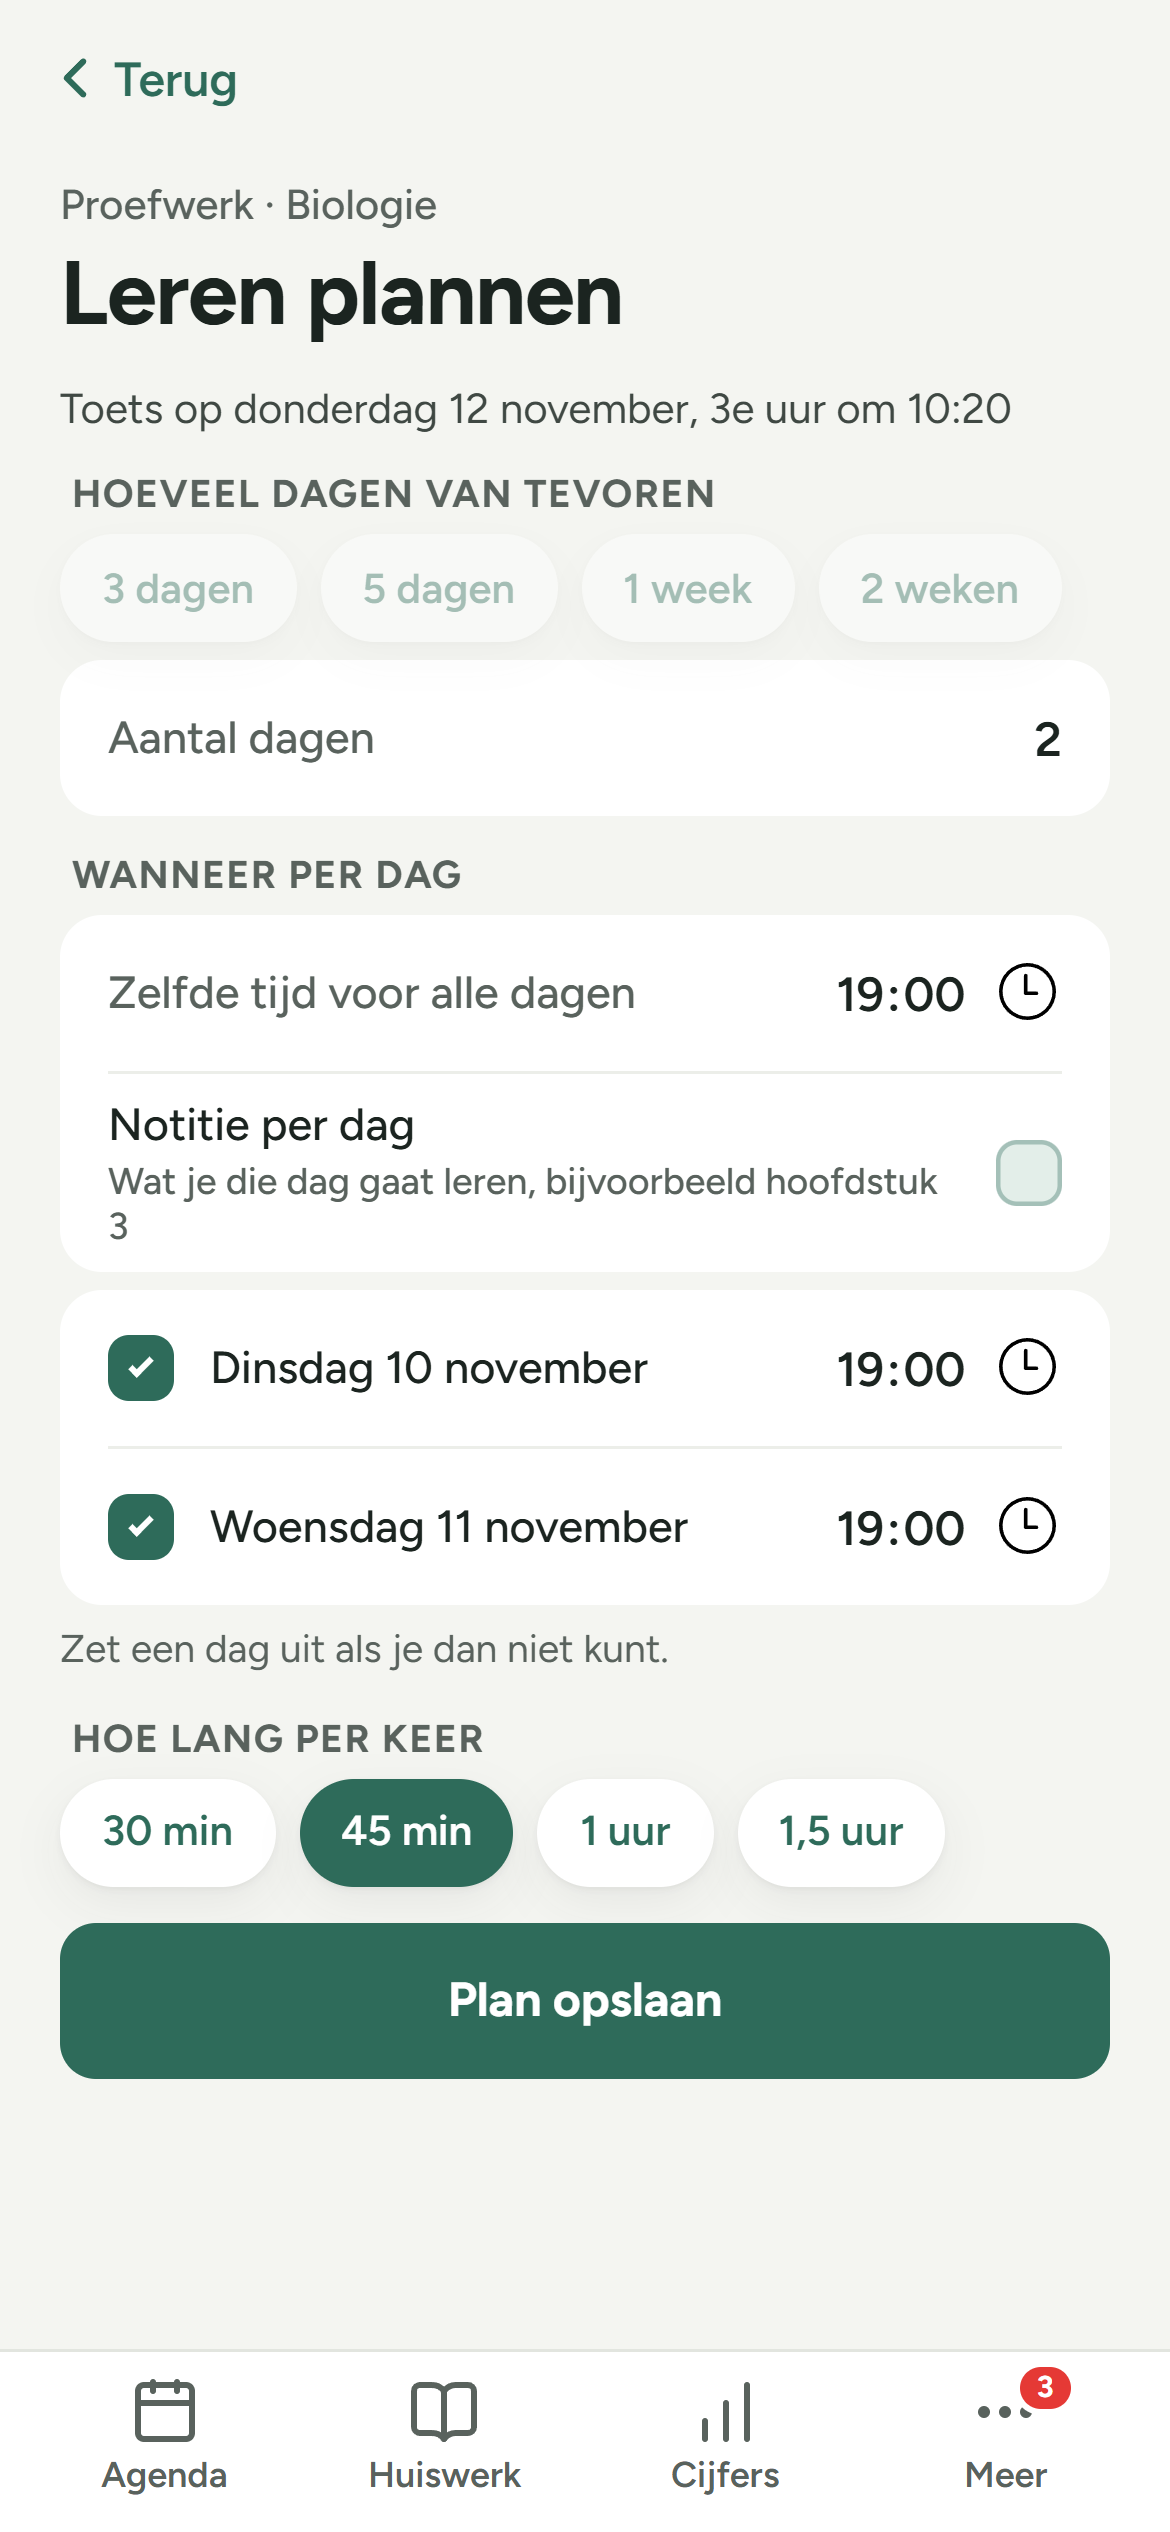
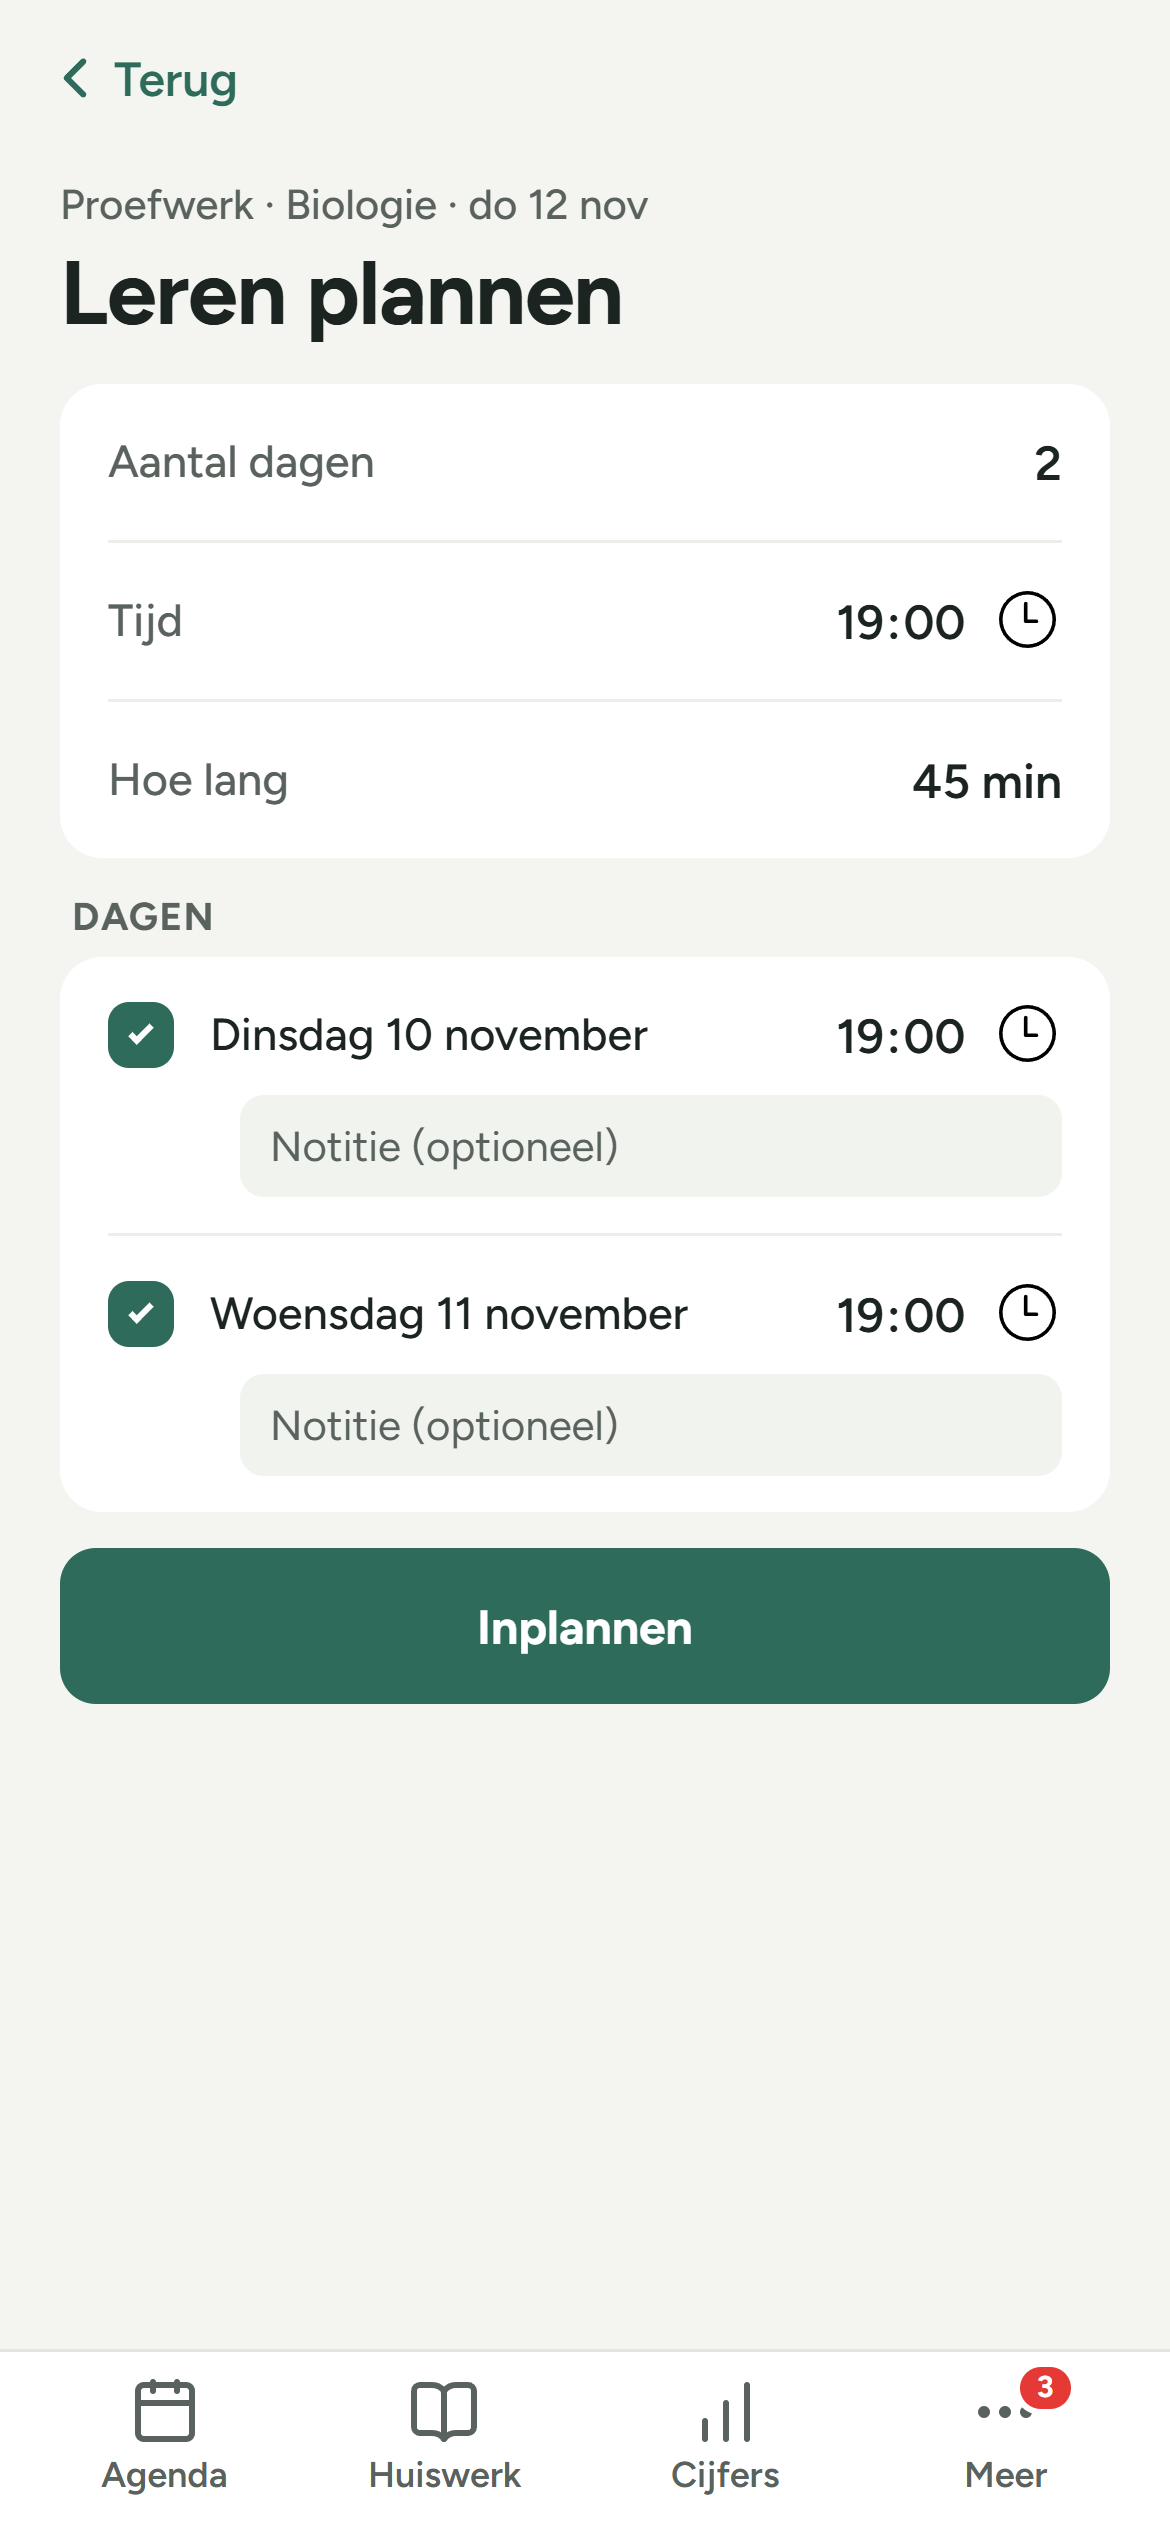
Leren plannen eenvoudiger: één kaart met aantal dagen, tijd en hoe lang; dagen met notitieveld; knop Inplannen

diff --git a/src/screens/LerenPlannen.tsx b/src/screens/LerenPlannen.tsx
@@ -8,7 +8,7 @@ import { PaginaKop } from '../components/ui/PaginaKop';
 import { Sectie } from '../components/ui/Sectie';
 import { TerugLink } from '../components/ui/TerugLink';
 import { soortVan, useAfspraak } from '../hooks/useAfspraak';
-import { beginVanDag, dagTitel, naarInvoer, plusDagen, tijd, vanInvoer } from '../lib/datum';
+import { beginVanDag, dagKort, dagTitel, korteDatum, naarInvoer, plusDagen, vanInvoer } from '../lib/datum';
 import { useLagen } from '../lib/laag';
 import { bewaarLeerplan, leerplanVoor, verwijderLeerplan, type Leermoment } from '../lib/leerplan';
 import { controleerNu } from '../lib/notificaties';
@@ -22,18 +22,13 @@ import '../components/leren/leren.css';
 const MAX_DAGEN = 21;
 const STANDAARD_TIJD = '19:00';
 
-const SNEL = [
-  { naam: '3 dagen', dagen: 3 },
-  { naam: '5 dagen', dagen: 5 },
-  { naam: '1 week', dagen: 7 },
-  { naam: '2 weken', dagen: 14 },
-];
-
 const DUREN = [
+  { naam: '15 min', minuten: 15 },
   { naam: '30 min', minuten: 30 },
   { naam: '45 min', minuten: 45 },
   { naam: '1 uur', minuten: 60 },
   { naam: '1,5 uur', minuten: 90 },
+  { naam: '2 uur', minuten: 120 },
 ];
 
 /** De datums waarop je leert: van `dagen` dagen voor de toets tot de dag ervoor, niet in het verleden. */
@@ -45,8 +40,8 @@ function datumsVoor(toetsDag: Date, dagen: number): string[] {
 }
 
 /**
- * Leren plannen voor een toets: hoeveel dagen van tevoren je begint (snelknoppen of de keuzelijst),
- * en per dag hoe laat. De leermomenten komen in je Agenda, met een melding als je dat wilt.
+ * Leren plannen voor een toets, zo eenvoudig mogelijk: één kaart met hoeveel dagen, hoe laat en hoe lang,
+ * daaronder de dagen (aan/uit, eigen tijd, notitie). De leermomenten komen in je Agenda en op school.
  */
 export function LerenPlannen() {
   const { id = '' } = useParams();
@@ -64,7 +59,6 @@ export function LerenPlannen() {
 
   const [dagen, setDagen] = useState<number | null>(bestaand?.dagen ?? null);
   const [duur, setDuur] = useState<number | null>(bestaand?.duur ?? null);
-  const [notities, setNotities] = useState(bestaand?.notities ?? false);
   // Een ouder kan geen afspraken in de agenda van het kind zetten.
   const kanOpSchool = !api.isOuder();
   const [bezig, setBezig] = useState(false);
@@ -114,7 +108,8 @@ export function LerenPlannen() {
       dagen: gekozenDagen,
       duur: gekozenDuur,
       momenten,
-      notities,
+      // Elke dag heeft een notitieveld; leeg blijft leeg.
+      notities: true,
       // Herinneringen voor leermomenten staan uit (meldingen werken nog niet betrouwbaar genoeg).
       herinnering: false,
       // Altijd ook in de schoolagenda (behalve voor een ouder).
@@ -160,16 +155,14 @@ export function LerenPlannen() {
     <div className="pagina pagina--met-terug">
       <TerugLink naar={`/huiswerk/${encodeURIComponent(id)}`} label="Terug" />
       <PaginaKop
-        sub={a ? `${soortVan(a)} · ${metHoofdletter(a.vak ?? a.omschrijving)}` : ' '}
+        sub={
+          a
+            ? `${soortVan(a)} · ${metHoofdletter(a.vak ?? a.omschrijving)} · ${dagKort(new Date(a.start))} ${korteDatum(a.start)}`
+            : ' '
+        }
         titel={maken ? 'Huiswerk inplannen' : 'Leren plannen'}
       />
       {fout && <p className="melding">{fout}</p>}
-      {a && (
-        <p className="leren__toets">
-          {maken ? 'Huiswerk voor' : 'Toets op'} {dagTitel(new Date(a.start)).toLowerCase()}
-          {a.lesuur ? `, ${a.lesuur}e uur` : ''} om {tijd(new Date(a.start))}
-        </p>
-      )}
 
       {a && max < 1 && (
         <p className="melding">
@@ -179,137 +172,102 @@ export function LerenPlannen() {
 
       {a && max >= 1 && (
         <>
-          <Sectie titel="Hoeveel dagen van tevoren">
-            <div className="leren__snel" role="group" aria-label="Snel kiezen">
-              {SNEL.map((s) => (
-                <button
-                  key={s.naam}
-                  type="button"
-                  className="leren__chip"
-                  aria-pressed={gekozenDagen === s.dagen}
-                  disabled={s.dagen > max}
-                  onClick={() => setDagen(s.dagen)}
-                >
-                  {s.naam}
-                </button>
-              ))}
-            </div>
-            {/* Eén brede rij; tik op het getal en de telefoon toont zijn eigen keuzewiel of lijst. */}
-            <section className="kaart leren__aantal">
-              <Invoerrij label="Aantal dagen" voor="leren-dagen">
-                <select
-                  id="leren-dagen"
-                  className="invoerrij__veld invoerrij__keuze"
-                  value={Math.min(gekozenDagen, max)}
-                  onChange={(e) => kiesDagen(Number(e.target.value))}
-                >
-                  {Array.from({ length: max }, (_, i) => i + 1).map((n) => (
-                    <option key={n} value={n}>
-                      {n}
+          {/* Alle keuzes in één kaart; tik op een waarde en de telefoon opent zijn eigen keuzewiel of lijst. */}
+          <section className="kaart">
+            <Invoerrij label="Aantal dagen" voor="leren-dagen">
+              <select
+                id="leren-dagen"
+                className="invoerrij__veld invoerrij__keuze"
+                value={Math.min(gekozenDagen, max)}
+                onChange={(e) => kiesDagen(Number(e.target.value))}
+              >
+                {Array.from({ length: max }, (_, i) => i + 1).map((n) => (
+                  <option key={n} value={n}>
+                    {n}
+                  </option>
+                ))}
+              </select>
+            </Invoerrij>
+            <Invoerrij label="Tijd" voor="leren-alle">
+              <input
+                id="leren-alle"
+                type="time"
+                className="invoerrij__veld"
+                value={alle}
+                onChange={(e) => {
+                  const t = e.target.value;
+                  if (!t) return;
+                  setAlle(t);
+                  setTijden((oud) =>
+                    Object.fromEntries(datums.map((d) => [d, { ...(oud[d] ?? { aan: true }), tijd: t }])),
+                  );
+                }}
+              />
+            </Invoerrij>
+            <Invoerrij label="Hoe lang" voor="leren-duur">
+              <select
+                id="leren-duur"
+                className="invoerrij__veld invoerrij__keuze"
+                value={gekozenDuur}
+                onChange={(e) => setDuur(Number(e.target.value))}
+              >
+                {[...DUREN, ...(DUREN.some((d) => d.minuten === gekozenDuur) ? [] : [{ naam: `${gekozenDuur} min`, minuten: gekozenDuur }])]
+                  .sort((x, y) => x.minuten - y.minuten)
+                  .map((d) => (
+                    <option key={d.minuten} value={d.minuten}>
+                      {d.naam}
                     </option>
                   ))}
-                </select>
-              </Invoerrij>
-            </section>
-          </Sectie>
+              </select>
+            </Invoerrij>
+          </section>
 
-          <Sectie
-            titel="Wanneer per dag"
-            nawoord={<p className="leren__nawoord">Zet een dag uit als je dan niet kunt.</p>}
-          >
-            <section className="kaart">
-              <Invoerrij label="Zelfde tijd voor alle dagen" voor="leren-alle">
-                <input
-                  id="leren-alle"
-                  type="time"
-                  className="invoerrij__veld"
-                  value={alle}
-                  onChange={(e) => {
-                    const t = e.target.value;
-                    if (!t) return;
-                    setAlle(t);
-                    setTijden((oud) =>
-                      Object.fromEntries(datums.map((d) => [d, { ...(oud[d] ?? { aan: true }), tijd: t }])),
-                    );
-                  }}
-                />
-              </Invoerrij>
-              <label className="instelrij meldingrij" htmlFor="leren-notities">
-                <span className="meldingrij__tekst">
-                  <span>Notitie per dag</span>
-                  <span className="meldingrij__uitleg">
-                    Wat je die dag gaat {maken ? 'maken' : 'leren'}, bijvoorbeeld hoofdstuk 3
-                  </span>
-                </span>
-                <input
-                  id="leren-notities"
-                  type="checkbox"
-                  checked={notities}
-                  onChange={(e) => setNotities(e.target.checked)}
-                />
-              </label>
-            </section>
+          <Sectie titel="Dagen">
             <section className="kaart">
               {datums.map((datum) => {
                 const m = momentVan(datum);
                 const d = vanInvoer(datum)!;
                 return (
                   <div key={datum} className="leren__dagblok">
-                  <div className={`leren__dag${m.aan ? '' : ' leren__dag--uit'}`}>
-                    <label className="instelrij" htmlFor={`leren-aan-${datum}`} style={{ border: 'none', minHeight: 0 }}>
+                    <div className={`leren__dag${m.aan ? '' : ' leren__dag--uit'}`}>
+                      <label className="instelrij" htmlFor={`leren-aan-${datum}`} style={{ border: 'none', minHeight: 0 }}>
+                        <input
+                          id={`leren-aan-${datum}`}
+                          type="checkbox"
+                          checked={m.aan}
+                          onChange={(e) => zet(datum, { aan: e.target.checked })}
+                        />
+                      </label>
+                      <span className="leren__dagnaam">{dagTitel(d)}</span>
                       <input
-                        id={`leren-aan-${datum}`}
-                        type="checkbox"
-                        checked={m.aan}
-                        onChange={(e) => zet(datum, { aan: e.target.checked })}
+                        type="time"
+                        className="leren__tijd"
+                        aria-label={`Tijd op ${dagTitel(d)}`}
+                        value={m.tijd}
+                        disabled={!m.aan}
+                        onChange={(e) => e.target.value && zet(datum, { tijd: e.target.value })}
                       />
-                    </label>
-                    <span className="leren__dagnaam">{dagTitel(d)}</span>
-                    <input
-                      type="time"
-                      className="leren__tijd"
-                      aria-label={`Tijd op ${dagTitel(d)}`}
-                      value={m.tijd}
-                      disabled={!m.aan}
-                      onChange={(e) => e.target.value && zet(datum, { tijd: e.target.value })}
-                    />
-                  </div>
-                  {notities && m.aan && (
-                    <input
-                      type="text"
-                      className="leren__notitie"
-                      aria-label={`Notitie voor ${dagTitel(d)}`}
-                      placeholder={maken ? 'Wat ga je maken?' : 'Wat ga je leren?'}
-                      value={m.notitie ?? ''}
-                      onChange={(e) => zet(datum, { notitie: e.target.value })}
-                    />
-                  )}
+                    </div>
+                    {m.aan && (
+                      <input
+                        type="text"
+                        className="leren__notitie"
+                        aria-label={`Notitie voor ${dagTitel(d)}`}
+                        placeholder="Notitie (optioneel)"
+                        value={m.notitie ?? ''}
+                        onChange={(e) => zet(datum, { notitie: e.target.value })}
+                      />
+                    )}
                   </div>
                 );
               })}
             </section>
           </Sectie>
 
-          <Sectie titel="Hoe lang per keer">
-            <div className="leren__snel" role="group" aria-label="Hoe lang per keer">
-              {DUREN.map((d) => (
-                <button
-                  key={d.minuten}
-                  type="button"
-                  className="leren__chip"
-                  aria-pressed={gekozenDuur === d.minuten}
-                  onClick={() => setDuur(d.minuten)}
-                >
-                  {d.naam}
-                </button>
-              ))}
-            </div>
-          </Sectie>
-
           {melding && <p className="melding">{melding}</p>}
 
           <button type="button" className="knop-primair" onClick={opslaan} disabled={bezig}>
-            {bezig ? 'Bezig…' : bestaand ? 'Plan bijwerken' : 'Plan opslaan'}
+            {bezig ? 'Bezig…' : bestaand ? 'Bijwerken' : 'Inplannen'}
           </button>
           {bestaand && (
             <button type="button" className="knop-verwijderen" onClick={wis} disabled={bezig}>

diff --git a/src/components/leren/leren.css b/src/components/leren/leren.css
@@ -1,40 +1,4 @@
 /* ---------- Leren plannen ---------- */
-.leren__toets {
-  margin: 0;
-  font-size: 14px;
-  color: var(--tekst-zacht);
-}
-
-.leren__snel {
-  display: flex;
-  flex-wrap: wrap;
-  gap: 8px;
-}
-
-.leren__chip {
-  min-height: 36px;
-  padding: 0 14px;
-  border: none;
-  border-radius: 999px;
-  background: var(--kaart);
-  box-shadow: var(--schaduw-kaart);
-  color: var(--groen-tekst);
-  font: inherit;
-  font-size: 14px;
-  font-weight: 600;
-  cursor: pointer;
-}
-
-.leren__chip[aria-pressed='true'] {
-  background: var(--kop);
-  color: var(--op-groen);
-}
-
-.leren__chip:disabled {
-  opacity: 0.4;
-  cursor: default;
-}
-
 /* Een dag in het plan: de regel met vinkje en tijd, en eventueel de notitie eronder. */
 .leren__dagblok {
   border-bottom: 1px solid var(--lijn-zacht);
@@ -54,15 +18,15 @@
 .leren__notitie {
   display: block;
   width: calc(100% - 44px);
-  margin: -4px 0 12px 44px;
-  min-height: 40px;
-  padding: 0 12px;
-  border: 1px solid var(--invoer-rand);
-  border-radius: 10px;
-  background: var(--achtergrond);
+  margin: -6px 0 12px 44px;
+  min-height: 34px;
+  padding: 0 10px;
+  border: none;
+  border-radius: 8px;
+  background: var(--vlak);
   color: var(--tekst);
   font: inherit;
-  font-size: 15px;
+  font-size: 14px;
 }
 
 .leren__notitie::placeholder {
@@ -95,13 +59,6 @@
 .leren__tijd:disabled {
   color: var(--tekst-secundair);
   opacity: 0.6;
-}
-
-.leren__nawoord {
-  margin: 0;
-  font-size: 13px;
-  line-height: 1.45;
-  color: var(--tekst-secundair);
 }
 
 /* Rechtsboven bij een toets: "Plan leren". */
